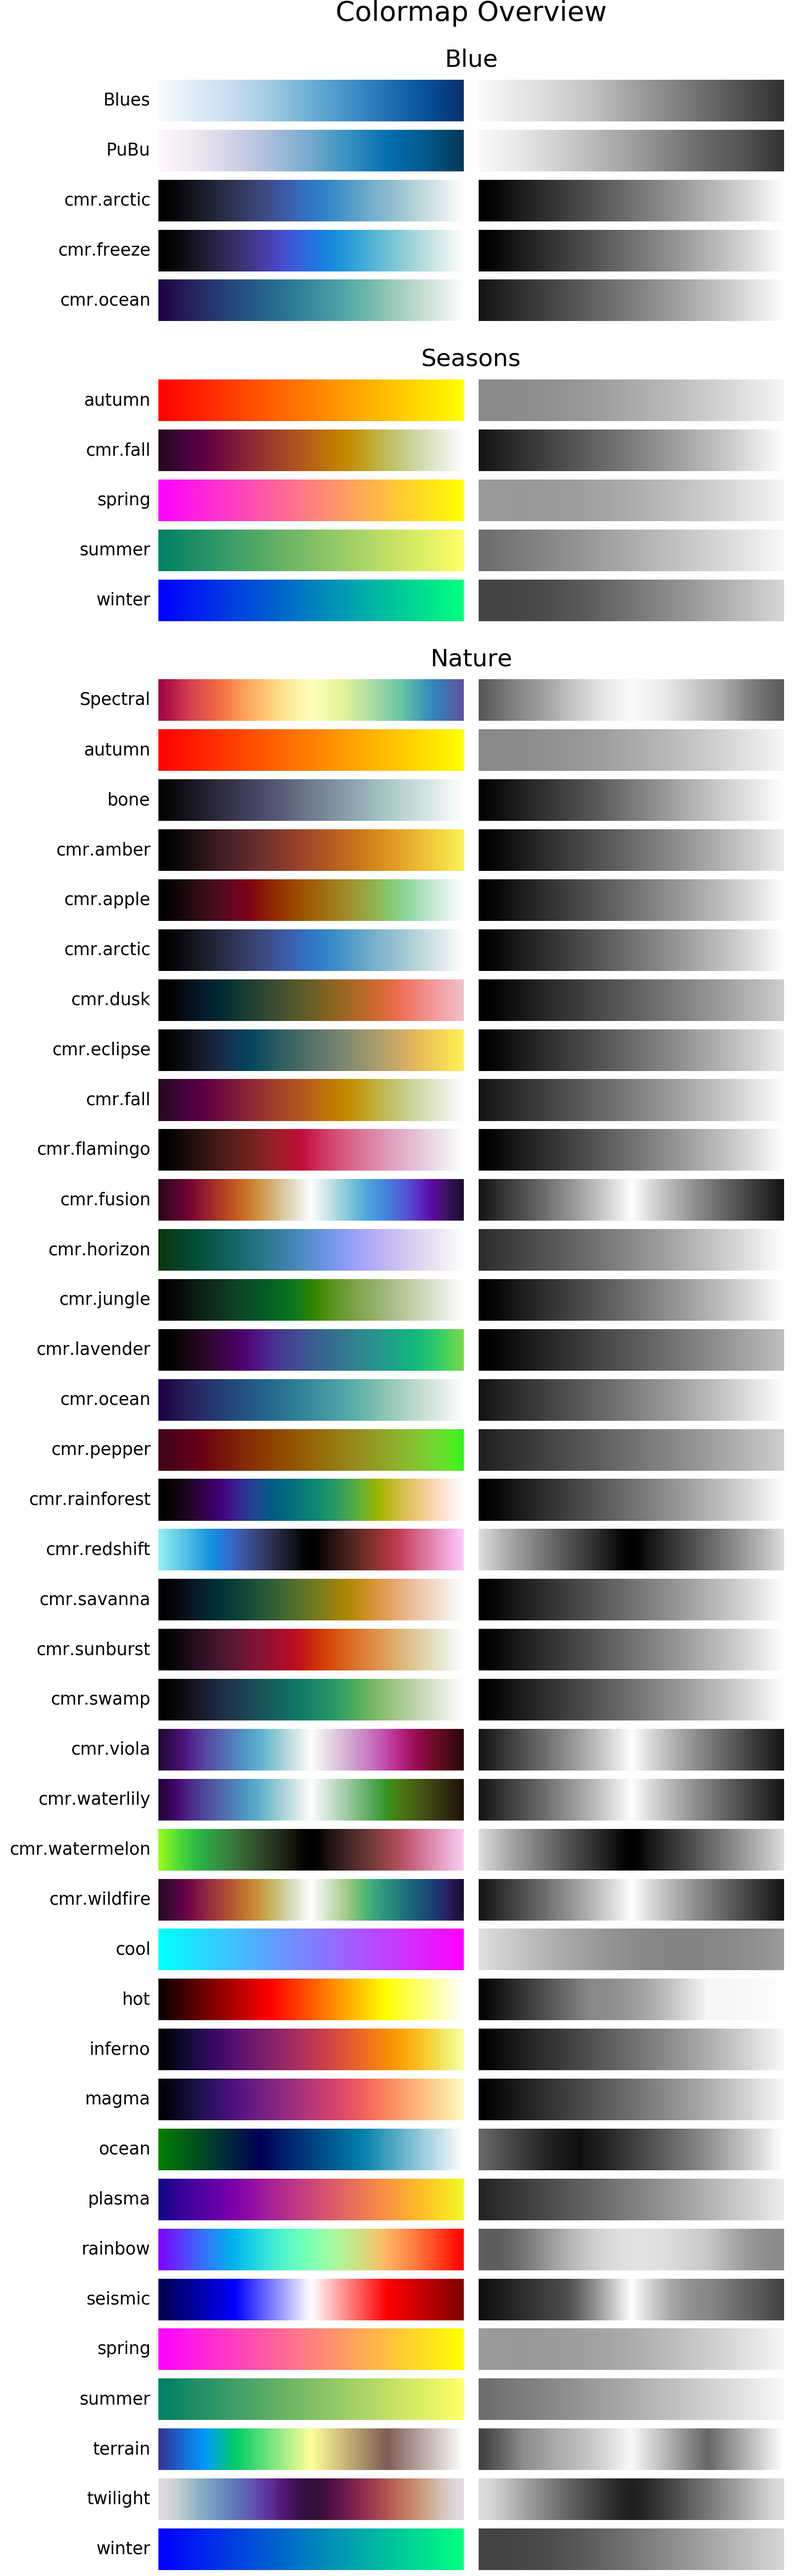
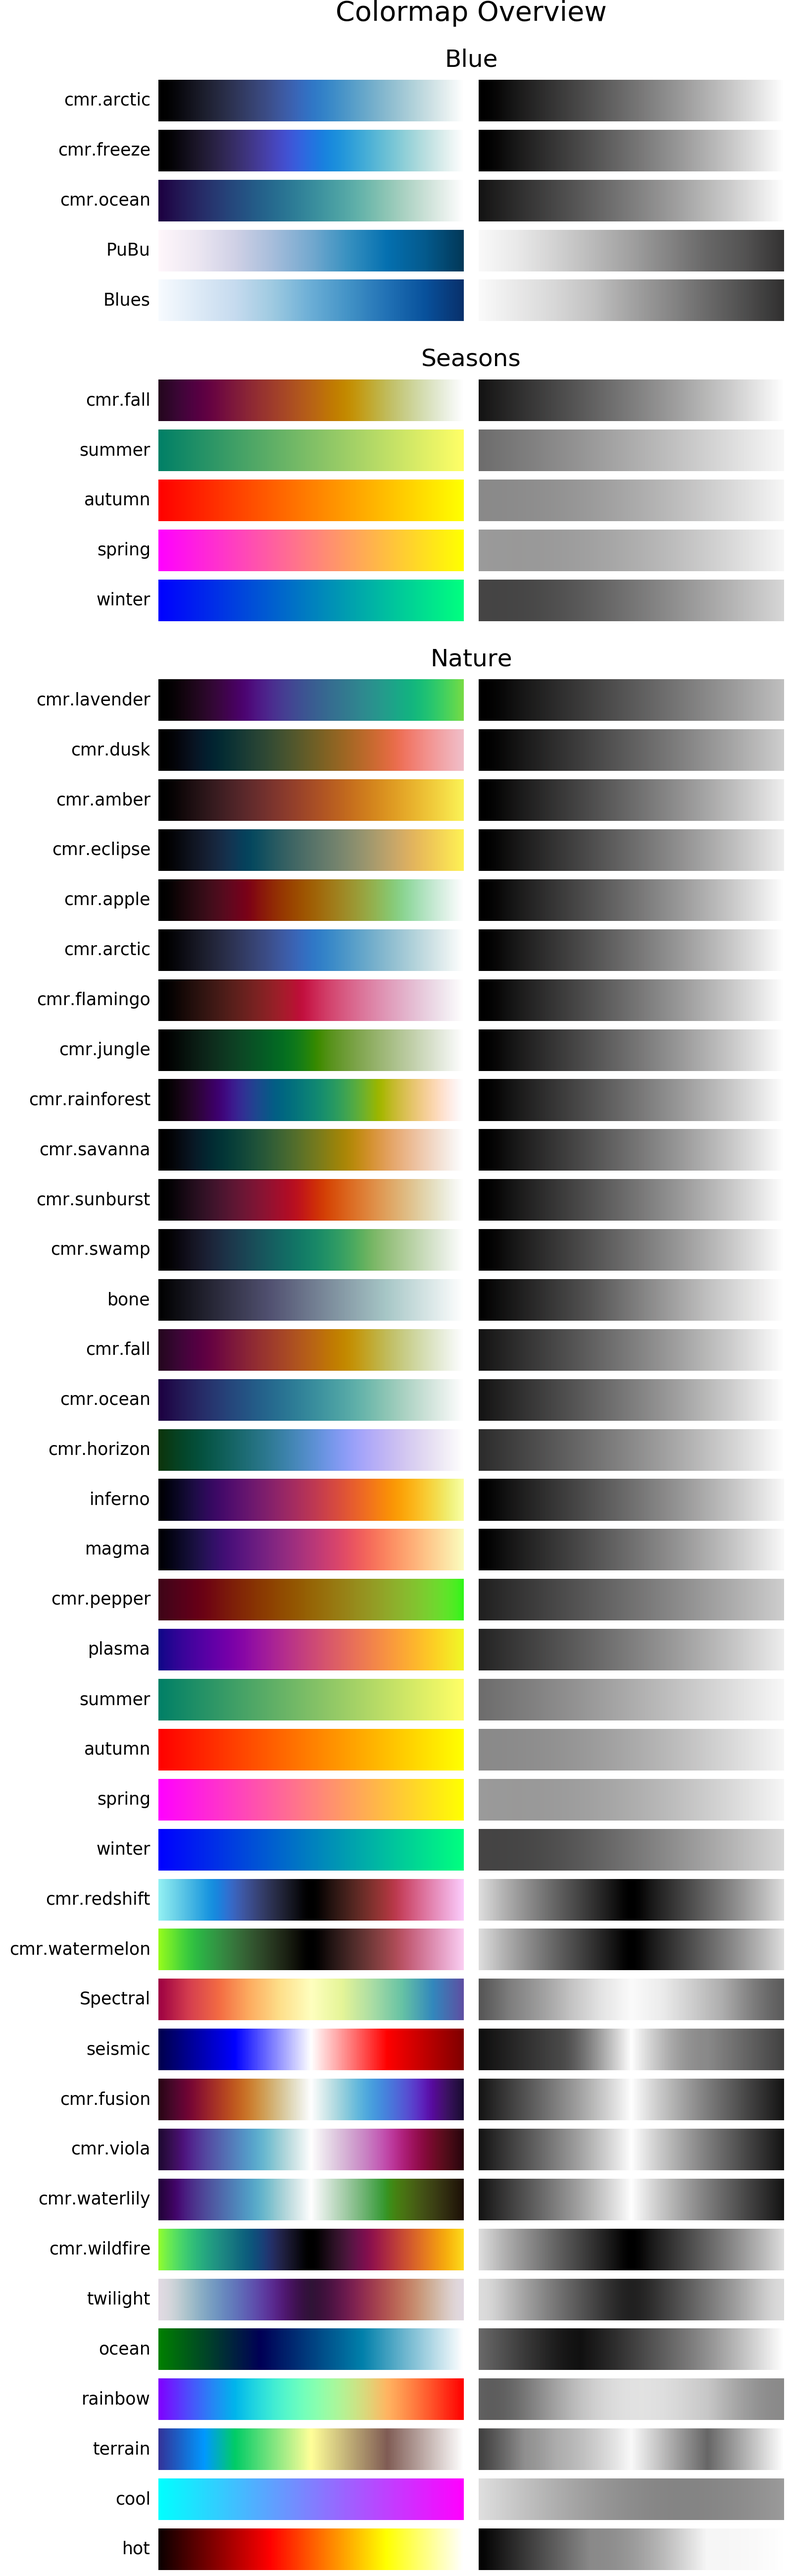
Add 'sort=None' to allow for colormaps to retain their order in the overview (resolves #18).

diff --git a/cmasher/utils.py b/cmasher/utils.py
@@ -161,12 +161,14 @@ def create_cmap_overview(cmaps=None, savefig=None, use_types=True,
         Whether all colormaps in `cmaps` should be categorized into their
         colormap types (sequential; diverging; cyclic; qualitative; misc).
         If `cmaps` is a dict, this value is ignored.
-    sort : {'alphabetical'/'name'; 'lightness'}. Default: 'alphabetical'
+    sort : {'alphabetical'/'name'; 'lightness'} or None. Default: \
+        'alphabetical'
         String indicating how the colormaps should be sorted in the overview.
         If 'alphabetical', the colormaps are sorted alphabetically on their
         name.
         If 'lightness', the colormaps are sorted on their starting lightness
         and their lightness range.
+        If *None*, the colormaps retain the order they were given in.
     plot_profile : bool or float. Default: False
         Whether the lightness profiles of all colormaps should be plotted. If
         not *False*, the lightness profile of a colormap is plotted on top of
@@ -196,6 +198,10 @@ def create_cmap_overview(cmaps=None, savefig=None, use_types=True,
     # If cmaps is None, use cmap_d.values
     if cmaps is None:
         cmaps = cmrcm.cmap_d.values()
+
+    # If sort is a string, convert to lowercase
+    if isinstance(sort, string_types):
+        sort = sort.lower()
 
     # Create empty list of cmaps
     cmaps_list = []
@@ -257,11 +263,11 @@ def create_cmap_overview(cmaps=None, savefig=None, use_types=True,
             # If this cm_type has at least 1 colormap, sort and add them
             if value:
                 # Sort on lightness if requested and this cm_type is compatible
-                if((sort.lower() == 'lightness') and
+                if((sort == 'lightness') and
                    (key not in ('qualitative', 'misc'))):
                     value.sort(key=_get_cmap_lightness_rank)
                 # Else, sort on name
-                else:
+                elif sort in ('alphabetical', 'name'):
                     value.sort(key=lambda x: x.name)
 
                 # Add to list
@@ -271,9 +277,9 @@ def create_cmap_overview(cmaps=None, savefig=None, use_types=True,
     # Else, a list is used
     else:
         # Sort the colormaps
-        if(sort.lower() == 'lightness'):
+        if(sort == 'lightness'):
             cmaps_list.sort(key=_get_cmap_lightness_rank)
-        else:
+        elif sort in ('alphabetical', 'name'):
             cmaps_list.sort(key=lambda x: x.name)
 
     # Obtain the colorspace converter for showing cmaps in grey-scale

diff --git a/cmasher/colormaps/prep_cmap_data.py b/cmasher/colormaps/prep_cmap_data.py
@@ -155,7 +155,7 @@ if(__name__ == '__main__'):
             savefig=path.join(docs_dir, 'images', 'seq_cmaps.png'))
         cmaps = [cm for cm in cmap_d if get_cmap_type(cm) == 'sequential']
         create_cmap_overview(
-            cmaps, use_types=False,
+            cmaps, use_types=False, sort='alphabetical',
             savefig=path.join(docs_dir, 'images', 'mpl_seq_cmaps.png'))
         cmtype = 'sequential'
     elif(cmtype == 'diverging'):

diff --git a/cmasher/__version__.py b/cmasher/__version__.py
@@ -10,4 +10,4 @@ Stores the different versions of the *CMasher* package.
 
 # %% VERSIONS
 # Default/Latest/Current version
-__version__ = '1.4.1'
+__version__ = '1.4.2'

diff --git a/docs/source/user/usage.rst b/docs/source/user/usage.rst
@@ -24,8 +24,9 @@ Colormap overview figures are ideal for webpages or documents, as their horizont
 Adding or removing colormaps from the overview solely affects its vertical resolution, which is adjusted automatically such that each entry always has the same resolution.
 
 The colormaps shown in an overview can be sorted/ordered in a number of different ways.
-By default, the colormaps are separated into their types (as determined by :func:`~cmasher.get_cmap_type`), and sorted on their name in alphabetical order.
-However, one can specify their own categories for colormaps (that are used instead of the colormap types) by providing a dict of lists, or sort the colormaps on their lightness profiles with :pycode:`sort='lightness'`.
+By default, the colormaps are separated into their types (as determined by :func:`~cmasher.get_cmap_type`), and sorted on their name in alphabetical order (use :pycode:`sort=None` to not sort the colormaps).
+However, one can specify their own categories for colormaps (that are used instead of the colormap types) by providing a dict of lists, where the keys are used as the categories.
+As colormaps with different lightness profiles can cause perception issues when displayed near each other, colormaps can also be sorted on their lightness profiles with :pycode:`sort='lightness'` to avoid this problem.
 Additionally, by using :pycode:`plot_profile=True`, one can plot the lightness profile of all colormaps (except those that are classified as 'qualitative') on top of their grey-scaled versions, allowing for quick performance comparisons between colormaps.
 
 Below is a list of pages containing several colormap overview examples with their scripts.

diff --git a/docs/source/user/cmap_overviews/categories.rst b/docs/source/user/cmap_overviews/categories.rst
@@ -1,7 +1,7 @@
 Colormap categories
 ===================
 This colormap overview shows a collection of selected colormaps, divided into specified categories (determined at v1.4.0).
-The colormaps are sorted on their name within each category.
+The colormaps are not sorted within each category.
 
 .. image:: ../images/cmap_categories.png
     :alt: Colormap overview of selected colormaps, divided into categories.
@@ -68,4 +68,4 @@ The colormaps are sorted on their name within each category.
             'hot']}
 
     # Create colormap overview of selected colormaps, divided into categories
-    cmr.create_cmap_overview(cmaps_dct)
+    cmr.create_cmap_overview(cmaps_dct, sort=None)
